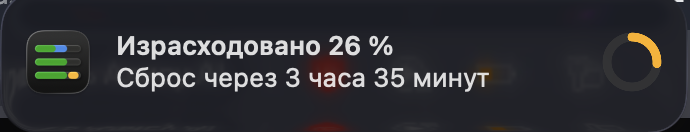
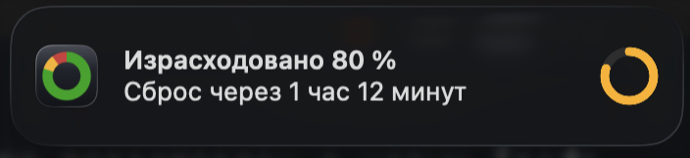
Новый логотип (#11)
* Нарисовал иконку кольцом по порогам

* Разложил чейнджлог по версиям и описал иконку

* Показал новую иконку в README и архитектуре

* Переснял баннер сессии с новой иконкой

* Переснял баннер недели с новой иконкой

diff --git a/Sources/ClaudeWeekApp/AppIcon.swift b/Sources/ClaudeWeekApp/AppIcon.swift
@@ -1,14 +1,29 @@
 import AppKit
 
-/// Иконка приложения — та же метафора, что и в панели: три полосы недели,
-/// где зелёная упирается в янтарную. Рисуем кодом, потому что без Xcode
-/// собрать ассет-каталог нечем.
+/// Иконка приложения — то же кольцо, что висит в строке меню, только крупно:
+/// шкала недельного лимита, разложенная по порогам. Рисуем кодом, потому что
+/// без Xcode собрать ассет-каталог нечем.
 ///
-/// Цвета берутся из родной палитры, тёмной её половины: иконка на плитке
-/// Launchpad живёт своей жизнью и на тему системы не смотрит, но роли у полос
+/// Цвета дуг берутся из родной палитры, тёмной её половины: иконка на плитке
+/// Launchpad живёт своей жизнью и на тему системы не смотрит, но роли у цветов
 /// те же, что в панели, — и расходиться их оттенки не должны.
 enum AppIcon {
     private static let ink = Palette.system
+
+    /// Где зелёное сменяется янтарным и янтарное — красным. Числа не совпадают
+    /// с порогами уведомлений (80 и 95 по умолчанию) намеренно: на 16 pt пять
+    /// процентов круга вырождаются в одну точку, и красного в знаке попросту
+    /// не видно. Тридцать шесть градусов — минимум, который переживает
+    /// уменьшение до иконки в Spotlight.
+    private static let warningStart: CGFloat = 80
+    private static let criticalStart: CGFloat = 90
+
+    /// Плитка. Своих цветов у неё в палитре нет: фон панели рассчитан на текст
+    /// поверх материала, а плитке нужен градиент, который читается на любом
+    /// рабочем столе. Холодный графит выбран под кольцо — тёплый серый рядом с
+    /// зелёным желтит.
+    private static let plateTop: UInt32 = 0x2A2E38
+    private static let plateBottom: UInt32 = 0x111318
 
     /// Пары «имя файла в .iconset — сторона в пикселях».
     static let variants: [(name: String, pixels: Int)] = [
@@ -48,68 +63,92 @@ enum AppIcon {
 
     private static func draw(side: CGFloat) -> NSImage {
         NSImage(size: NSSize(width: side, height: side), flipped: false) { _ in
-            // macOS сама не скругляет иконку — рисуем «сквиркл» вручную,
-            // с отступом по гайдлайну (примерно десятая часть стороны).
-            let inset = side * 0.08
-            let plate = NSRect(x: inset, y: inset, width: side - inset * 2, height: side - inset * 2)
-            let corner = plate.width * 0.22
-
-            NSColor(hex: ink.panelBackground.dark).setFill()
-            NSBezierPath(roundedRect: plate, xRadius: corner, yRadius: corner).fill()
-
-            let barHeight = plate.height * 0.11
-            let spacing = plate.height * 0.10
-            let left = plate.minX + plate.width * 0.14
-            let usable = plate.width * 0.72
-            let radius = barHeight / 2
-            let totalHeight = barHeight * 3 + spacing * 2
-            var y = plate.midY + totalHeight / 2 - barHeight
-
-            // Сверху вниз: недобор, ровно по плану, перерасход.
-            let rows: [(fill: Double, plan: Double)] = [
-                (0.45, 0.70),
-                (0.70, 0.70),
-                (0.95, 0.70),
-            ]
-
-            for row in rows {
-                NSColor(hex: ink.track.dark).setFill()
-                NSBezierPath(
-                    roundedRect: NSRect(x: left, y: y, width: usable, height: barHeight),
-                    xRadius: radius, yRadius: radius
-                ).fill()
-
-                NSColor(hex: ink.plan.dark).setFill()
-                NSBezierPath(
-                    roundedRect: NSRect(x: left, y: y, width: usable * row.plan, height: barHeight),
-                    xRadius: radius, yRadius: radius
-                ).fill()
-
-                NSColor(hex: ink.good.dark).setFill()
-                NSBezierPath(
-                    roundedRect: NSRect(
-                        x: left, y: y,
-                        width: usable * min(row.fill, row.plan), height: barHeight
-                    ),
-                    xRadius: radius, yRadius: radius
-                ).fill()
-
-                if row.fill > row.plan {
-                    let gap = max(side * 0.012, 1)
-                    let start = left + usable * row.plan + gap
-                    NSColor(hex: ink.warning.dark).setFill()
-                    NSBezierPath(
-                        roundedRect: NSRect(
-                            x: start, y: y,
-                            width: max(left + usable * row.fill - start, 1), height: barHeight
-                        ),
-                        xRadius: radius, yRadius: radius
-                    ).fill()
-                }
-
-                y -= barHeight + spacing
-            }
+            let plate = plateRect(side: side)
+            fillPlate(plate)
+            drawRing(in: plate)
             return true
         }
+    }
+
+    /// Отступ по гайдлайну: плитка не занимает квадрат целиком.
+    private static func plateRect(side: CGFloat) -> NSRect {
+        let inset = side * 0.055
+        return NSRect(x: inset, y: inset, width: side - inset * 2, height: side - inset * 2)
+    }
+
+    private static func fillPlate(_ rect: NSRect) {
+        NSGraphicsContext.current?.saveGraphicsState()
+        defer { NSGraphicsContext.current?.restoreGraphicsState() }
+
+        squircle(in: rect).addClip()
+        NSGradient(colors: [NSColor(hex: plateTop), NSColor(hex: plateBottom)])?
+            .draw(in: rect, angle: -90)
+        // Блик по верхней кромке: без него плитка выглядит наклейкой, а не
+        // иконкой рядом с системными.
+        NSGradient(colors: [NSColor(white: 1, alpha: 0.14), NSColor(white: 1, alpha: 0)])?
+            .draw(
+                in: NSRect(
+                    x: rect.minX, y: rect.maxY - rect.height * 0.4,
+                    width: rect.width, height: rect.height * 0.4
+                ),
+                angle: -90
+            )
+    }
+
+    /// Форма плитки macOS — суперэллипс, а не прямоугольник со скруглением:
+    /// у скруглённого угол ломается там, где дуга встречается с прямой, и
+    /// рядом с системными иконками это видно.
+    private static func squircle(in rect: NSRect, exponent: CGFloat = 5) -> NSBezierPath {
+        let path = NSBezierPath()
+        let a = rect.width / 2, b = rect.height / 2
+        let steps = 720
+        for step in 0...steps {
+            let t = CGFloat(step) / CGFloat(steps) * 2 * .pi
+            let cosT = cos(t), sinT = sin(t)
+            let point = NSPoint(
+                x: rect.midX + a * copysign(pow(abs(cosT), 2 / exponent), cosT),
+                y: rect.midY + b * copysign(pow(abs(sinT), 2 / exponent), sinT)
+            )
+            if step == 0 { path.move(to: point) } else { path.line(to: point) }
+        }
+        path.close()
+        return path
+    }
+
+    private static func drawRing(in plate: NSRect) {
+        let center = NSPoint(x: plate.midX, y: plate.midY)
+        let radius = plate.width * 0.305
+        let width = plate.width * 0.165
+
+        // Соседние дуги перекрываются на полградуса: встык AppKit оставляет
+        // волосяную щель, и на мелком размере она читается как грязь.
+        let bleed: CGFloat = 0.5
+        let warningAngle = warningStart * 3.6
+        let criticalAngle = criticalStart * 3.6
+
+        arc(center: center, radius: radius, width: width,
+            from: 90, sweep: warningAngle + bleed, color: ink.good.dark)
+        arc(center: center, radius: radius, width: width,
+            from: 90 - warningAngle, sweep: criticalAngle - warningAngle + bleed,
+            color: ink.warning.dark)
+        arc(center: center, radius: radius, width: width,
+            from: 90 - criticalAngle, sweep: 360 - criticalAngle, color: ink.critical.dark)
+    }
+
+    /// 12 часов — верх круга; в системе координат AppKit это 90°, дальше по
+    /// часовой стрелке, как заполняется кольцо в строке меню.
+    private static func arc(
+        center: NSPoint, radius: CGFloat, width: CGFloat,
+        from: CGFloat, sweep: CGFloat, color: UInt32
+    ) {
+        let path = NSBezierPath()
+        path.appendArc(
+            withCenter: center, radius: radius,
+            startAngle: from, endAngle: from - min(sweep, 359.9), clockwise: true
+        )
+        path.lineWidth = width
+        path.lineCapStyle = .butt
+        NSColor(hex: color).setStroke()
+        path.stroke()
     }
 }

diff --git a/CHANGELOG.md b/CHANGELOG.md
@@ -14,6 +14,21 @@ is the place for the shorter, human-facing story.
 
 ## [Unreleased]
 
+### Changed
+
+- New app icon: the ring from the menu bar, drawn large on an ink-coloured
+  tile — green from 0 to 80 %, amber to 90 %, red closing the circle to 100 %,
+  in the same colours the panel uses. The old icon was three week bars, and
+  below 32 pt they merged into a green smudge; the ring survives down to 16 pt,
+  which is the size Spotlight and the "Open with" list show. Thresholds of the
+  icon are deliberately not the notification defaults (80 / 95): five per cent
+  of a circle is one pixel at that size, and red would not be visible at all.
+- Notification screenshots in the README and the guide retaken — the banners
+  carry the app icon, so both showed the old one. The README now opens with the
+  icon as well (`docs/images/app-icon.png`).
+
+## [0.1.9] — 2026-08-16
+
 ### Added
 
 - Notifications when spend crosses a threshold you set: two thresholds per
@@ -40,6 +55,24 @@ is the place for the shorter, human-facing story.
 - `Formatting.longDuration` — the same interval in words ("2 дня 4 часа",
   "1 час 12 минут"), with Russian pluralisation. The panel keeps the short form;
   a banner has room for the long one.
+
+### Notes
+
+- Notifications are on out of the box: a feature that stays silent until you
+  find its tab does not do the job it was added for. macOS asks for permission
+  once, on the first launch of the new version; if it is refused, the tab says
+  so and offers the only place the ban can be lifted — System Settings. A build
+  run straight from `swift run` has no notifications at all: macOS identifies an
+  app by its bundle, and there isn't one.
+- Session notifications need the official source. The local estimate does not
+  compute the 5-hour percentage at all, so offline there is nothing to warn
+  about — and an expired session stays quiet rather than warning off a cached
+  number that reset hours ago.
+
+## [0.1.8] — 2026-08-15
+
+### Added
+
 - Model breakdown in the panel: clicking the percentage — on a day row or on
   the 5-hour session row — replaces the day rows with one row per model (Opus,
   Sonnet, Haiku), each with the same kind of bar showing its share of the
@@ -63,16 +96,6 @@ is the place for the shorter, human-facing story.
 
 ### Notes
 
-- Notifications are on out of the box: a feature that stays silent until you
-  find its tab does not do the job it was added for. macOS asks for permission
-  once, on the first launch of the new version; if it is refused, the tab says
-  so and offers the only place the ban can be lifted — System Settings. A build
-  run straight from `swift run` has no notifications at all: macOS identifies an
-  app by its bundle, and there isn't one.
-- Session notifications need the official source. The local estimate does not
-  compute the 5-hour percentage at all, so offline there is nothing to warn
-  about — and an expired session stays quiet rather than warning off a cached
-  number that reset hours ago.
 - The breakdown is computed from local transcripts in `~/.claude/projects` and
   weighted by model prices, so it is an estimate — which the panel states
   plainly while the breakdown is on screen. The official `/api/oauth/usage`
@@ -175,7 +198,9 @@ seven days of the week window, the 5-hour session, official numbers from
 `/api/oauth/usage` with a local estimate as fallback, settings window, MIT
 licence, CI, and a disk image built by tag for Apple Silicon.
 
-[Unreleased]: https://github.com/Greem4/ClaudeWeek/compare/v0.1.7...HEAD
+[Unreleased]: https://github.com/Greem4/ClaudeWeek/compare/v0.1.9...HEAD
+[0.1.9]: https://github.com/Greem4/ClaudeWeek/compare/v0.1.8...v0.1.9
+[0.1.8]: https://github.com/Greem4/ClaudeWeek/compare/v0.1.7...v0.1.8
 [0.1.7]: https://github.com/Greem4/ClaudeWeek/compare/v0.1.6...v0.1.7
 [0.1.6]: https://github.com/Greem4/ClaudeWeek/compare/v0.1.5...v0.1.6
 [0.1.5]: https://github.com/Greem4/ClaudeWeek/compare/v0.1.4...v0.1.5

diff --git a/docs/ARCHITECTURE.md b/docs/ARCHITECTURE.md
@@ -157,7 +157,7 @@ SwiftUI` — значит, расчёт просочился в UI или нао
 | `NotificationController.swift` | уведомления глазами системы: разрешение macOS, отправка баннеров, лог сказанного на диске |
 | `AlertArtwork.swift` | картинка баннера: дуга для сессии, красное число для недели |
 | `Screenshot.swift` | `--screenshot`: панель во всех темах, она же в разбивке по моделям, вкладка уведомлений, иконка в PNG |
-| `AppIcon.swift` | `--icon`: `.iconset` для сборки бандла |
+| `AppIcon.swift` | `--icon`: кольцо недели по порогам, `.iconset` для сборки бандла |
 | `CLI.swift` | `--json`, `--calibrate` и `--update` |
 
 ### Потоки данных

diff --git a/README.md b/README.md
@@ -1,3 +1,7 @@
+<p align="center">
+  <img src="docs/images/app-icon.png" width="128" alt="Иконка ClaudeWeek: кольцо недели">
+</p>
+
 # ClaudeWeek
 
 [![CI](https://github.com/Greem4/ClaudeWeek/actions/workflows/ci.yml/badge.svg)](https://github.com/Greem4/ClaudeWeek/actions/workflows/ci.yml)
